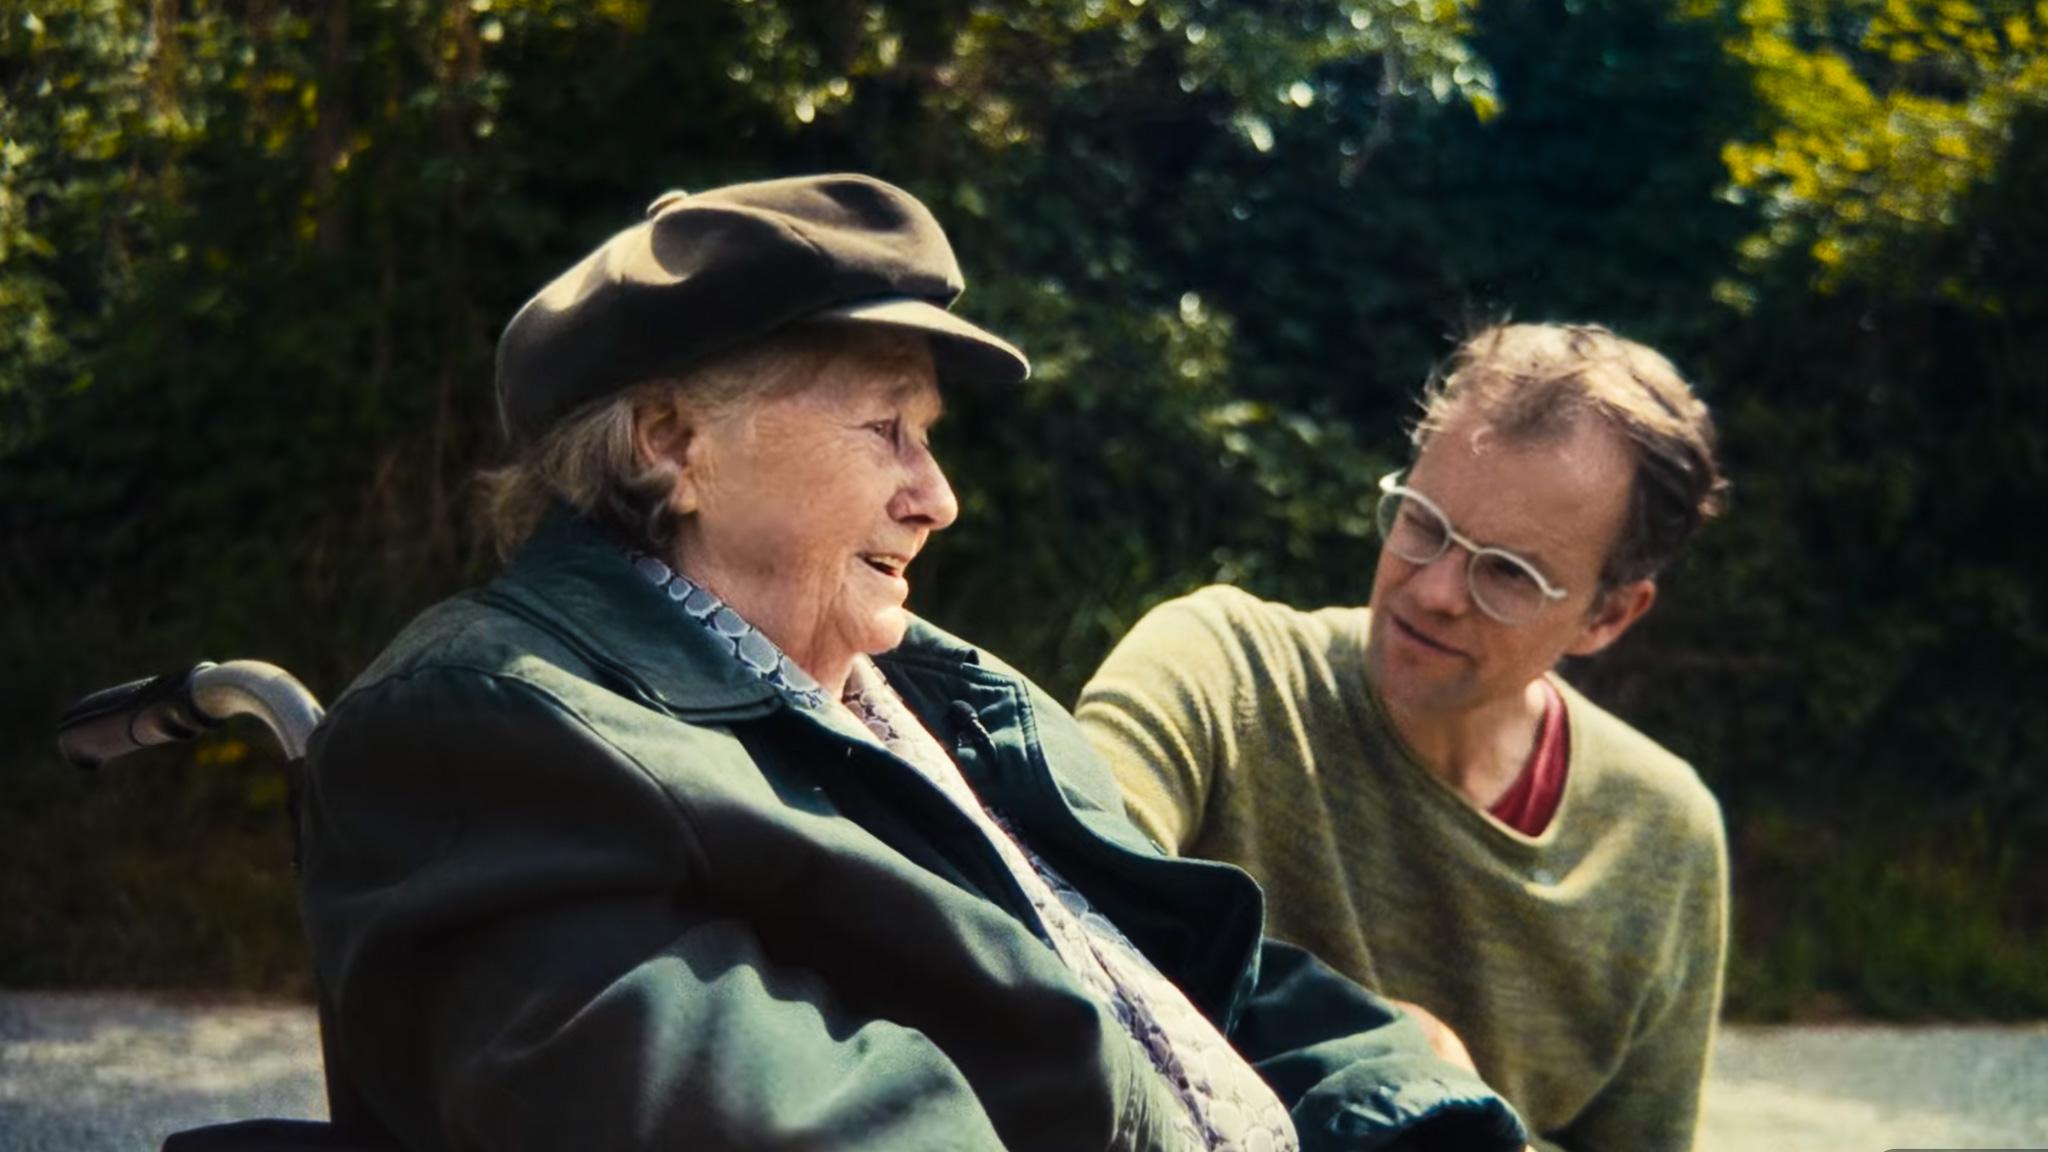
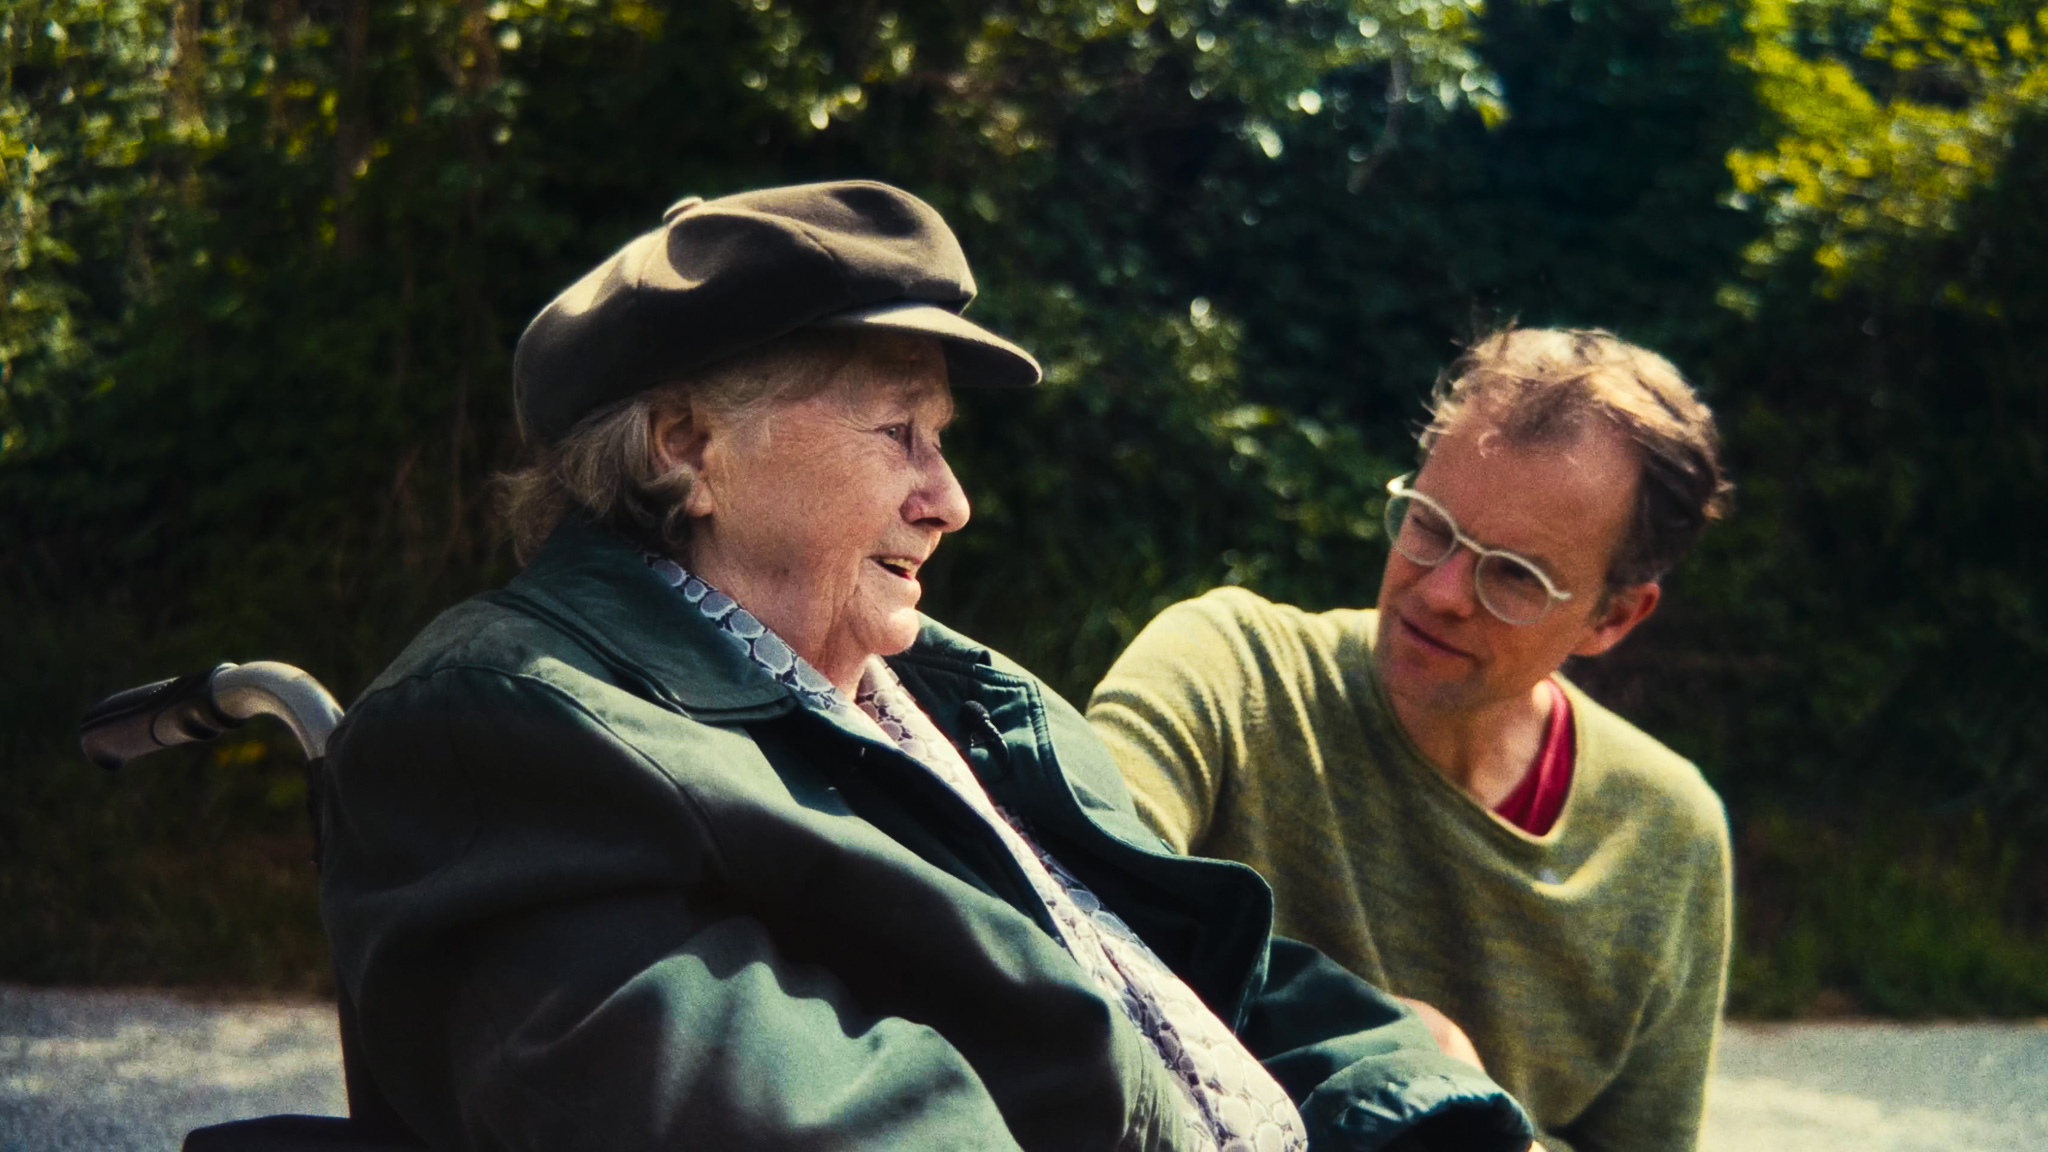
neuer titel

diff --git a/index.html b/index.html
@@ -27,10 +27,10 @@
             <a href="/FOLLOWING/">
                 <div class="latestwork">
                     <div class="latestworkimg">
-                        <img src="/images/followingtitel.jpg" alt="following">
+                        <img src="/images/sopha.jpg" alt="sopha">
                         <div class="latestworktext">
-                            <h2>New project as cinematographer</h2>
-                            <h1>FOLLOWING | short film</h1>
+                            <h2>New project</h2>
+                            <h1>Entwicklung wird nicht alt.</h1>
                         </div>
                         <p>SEE MORE...</p>
                     </div>